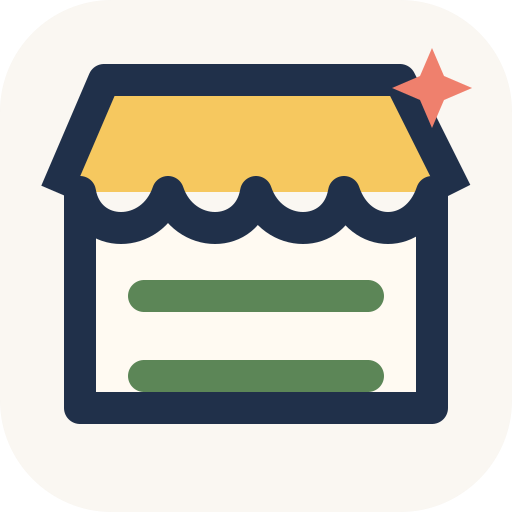
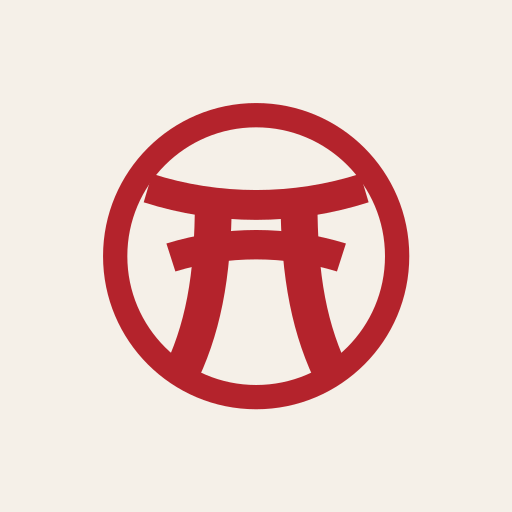
feat: update theme color to #b4232c and adjust related styles across the application

diff --git a/src/pages/CatalogPage.tsx b/src/pages/CatalogPage.tsx
@@ -1,11 +1,7 @@
 import { useCallback, useEffect, useMemo, useRef, useState } from "react";
 import "../styles/catalog.css";
-import { applyPageTheme, getStoredBoothTheme, getThemeStyle, resetPageTheme } from "../lib/theme";
-import {
-  getShopBranding,
-  safePublicUrl,
-  useDocumentBranding,
-} from "../lib/branding";
+import { applyPageTheme, getThemeStyle, resetPageTheme } from "../lib/theme";
+import { getShopBranding, useDocumentBranding } from "../lib/branding";
 import type { Order, Product, StorefrontSection } from "../types/catalog";
 import { CatalogLocaleProvider } from "../lib/catalogI18n";
 import { CatalogHeader } from "../components/catalog/CatalogHeader";
@@ -33,7 +29,7 @@ import { PageLoading } from "../components/ui/PageLoading";
 import { Link, useParams } from "react-router-dom";
 import { getPublicShop } from "../lib/api";
 import type { Shop } from "../types/catalog";
-import { LogIn, RotateCw, Store, StoreIcon } from "lucide-react";
+import { LogIn, RotateCw, Store } from "lucide-react";
 
 type NetworkConnection = { effectiveType?: string; saveData?: boolean };
 
@@ -82,7 +78,11 @@ export function CatalogPage() {
   const [activeOrder, setActiveOrder] = useState<Order | null>(initialOrder);
   const activeOrderRef = useRef<Order | null>(initialOrder);
   const verifiedBranding =
-    shop && shop.slug === shopSlug && booth.shop_id === shop.id && !isLoading && !loadError
+    shop &&
+    shop.slug === shopSlug &&
+    booth.shop_id === shop.id &&
+    !isLoading &&
+    !loadError
       ? getShopBranding(
           shop.name,
           booth.booth_name,
@@ -444,19 +444,14 @@ export function CatalogPage() {
     },
   ].sort((first, second) => first.position - second.position);
 
-  if (shop === undefined)
-    {
-      const cachedBooth = getStoredBoothTheme(`slug:${shopSlug}`);
-      const cachedLogo = safePublicUrl(cachedBooth.logo_url);
-      return (
+  if (shop === undefined) {
+    return (
       <PageLoading
         title="Opening the shop…"
         message="Getting the shelves ready for you."
-        icon={cachedLogo ? <img src={cachedLogo} alt="" /> : <StoreIcon size={28} />}
-        style={getThemeStyle(cachedBooth)}
       />
-      );
-    }
+    );
+  }
   if (shop === null)
     return (
       <main className="shop-state-shell">
@@ -509,14 +504,10 @@ export function CatalogPage() {
     );
 
   if (isLoading) {
-    const cachedBooth = getStoredBoothTheme(`slug:${shopSlug}`);
-    const cachedLogo = safePublicUrl(cachedBooth.logo_url);
     return (
       <PageLoading
         title="Opening the shop…"
         message="Getting the shelves ready for you."
-        icon={cachedLogo ? <img src={cachedLogo} alt="" /> : <StoreIcon size={28} />}
-        style={getThemeStyle(cachedBooth)}
       />
     );
   }

diff --git a/src/components/ui/PageLoading.tsx b/src/components/ui/PageLoading.tsx
@@ -5,26 +5,26 @@ import { PLATFORM_BRAND } from "../../lib/branding";
 interface PageLoadingProps {
   title?: ReactNode;
   message?: ReactNode;
-  icon?: ReactNode;
-  style?: React.CSSProperties;
-  showProgress?: boolean;
 }
 
 export function PageLoading({
   title = `Preparing ${PLATFORM_BRAND.name}`,
   message = "Getting everything ready…",
-  icon = <PlatformMark />,
-  style,
-  showProgress = true,
 }: PageLoadingProps) {
   return (
-    <main className="page-loading" aria-label={`Loading ${PLATFORM_BRAND.name}`} aria-busy="true" style={style}>
-      <div className="page-loading-brand" aria-hidden="true">{icon}</div>
-      <div className="page-loading-copy"><strong>{title}</strong><span>{message}</span></div>
-      <div
-        className={`page-loading-track ${showProgress ? "" : "page-loading-track-pending"}`}
-        aria-hidden="true"
-      >
+    <main
+      className="page-loading"
+      aria-label={`Loading ${PLATFORM_BRAND.name}`}
+      aria-busy="true"
+    >
+      <div className="page-loading-brand" aria-hidden="true">
+        <PlatformMark />
+      </div>
+      <div className="page-loading-copy">
+        <strong>{title}</strong>
+        <span>{message}</span>
+      </div>
+      <div className="page-loading-track" aria-hidden="true">
         <i />
       </div>
     </main>

diff --git a/src/components/ui/PageLoading.test.tsx b/src/components/ui/PageLoading.test.tsx
@@ -1,0 +1,25 @@
+import { afterEach, describe, expect, it } from "vitest";
+import { cleanup, render, screen } from "@testing-library/react";
+import { PageLoading } from "./PageLoading";
+
+describe("PageLoading", () => {
+  afterEach(cleanup);
+
+  it("keeps the shared Matsuri brand and progress treatment with contextual copy", () => {
+    render(
+      <PageLoading
+        title="Opening the shop…"
+        message="Getting the shelves ready for you."
+      />,
+    );
+
+    const loading = screen.getByLabelText("Loading Matsuri");
+    expect(loading).toHaveAttribute("aria-busy", "true");
+    expect(loading.querySelector(".page-loading-brand img")).toHaveAttribute(
+      "src",
+      expect.stringContaining("brand/matsuri-mark.svg"),
+    );
+    expect(loading.querySelector(".page-loading-track i")).toBeInTheDocument();
+    expect(screen.getByText("Opening the shop…")).toBeInTheDocument();
+  });
+});

diff --git a/src/styles/global.css b/src/styles/global.css
@@ -12,8 +12,8 @@
   --surface: #ffffff;
   --surface-soft: #faf7f1;
   --surface-tint: #f1ece4;
-  --coral: #5c8657;
-  --coral-strong: #476b43;
+  --coral: #b4232c;
+  --coral-strong: #8f1821;
   --blue: #f6c85f;
   --navy: #20304a;
   --teal: #ef806d;
@@ -118,16 +118,14 @@ img {
   @keyframes empty-state-arrive { from { opacity: 0; transform: translateY(4px); } }
 }
 
-.page-loading { position: fixed; inset: 0; z-index: 9998; display: grid; place-items: center; align-content: center; gap: 16px; width: 100%; min-height: 100dvh; padding: 24px; color: var(--muted); background: radial-gradient(circle at 50% 42%, color-mix(in srgb, var(--coral) 9%, transparent), transparent 34%), var(--page-bg); text-align: center; }
-.page-loading-brand { display: grid; place-items: center; width: 64px; height: 64px; overflow: hidden; border: 1px solid color-mix(in srgb, var(--coral) 18%, var(--line)); border-radius: 22px; color: var(--coral); background: var(--surface); box-shadow: var(--soft-shadow); animation: loading-float 1.8s ease-in-out infinite; }
+.page-loading { --loading-accent: #b4232c; --loading-ink: #20304a; --loading-muted: #667080; --loading-line: #ded9cf; --loading-bg: #f5f0e8; position: fixed; inset: 0; z-index: 9998; display: grid; place-items: center; align-content: center; gap: 16px; width: 100%; min-height: 100dvh; padding: 24px; color: var(--loading-muted); background: radial-gradient(circle at 50% 42%, color-mix(in srgb, var(--loading-accent) 9%, transparent), transparent 34%), var(--loading-bg); text-align: center; }
+.page-loading-brand { display: grid; place-items: center; width: 64px; height: 64px; overflow: hidden; border: 1px solid color-mix(in srgb, var(--loading-accent) 18%, var(--loading-line)); border-radius: 22px; color: var(--loading-accent); background: #fff; box-shadow: var(--soft-shadow); animation: loading-float 1.8s ease-in-out infinite; }
 .page-loading-brand img { width: 100%; height: 100%; padding: 11px; object-fit: contain; }
 .page-loading-copy { display: grid; gap: 6px; }
-.page-loading-copy strong { color: var(--ink); font-size: 19px; }
+.page-loading-copy strong { color: var(--loading-ink); font-size: 19px; }
 .page-loading-copy span { font-size: 13px; }
-.page-loading-track { overflow: hidden; width: min(220px, 60vw); height: 4px; border-radius: 999px; background: color-mix(in srgb, var(--coral) 12%, var(--line)); }
-.page-loading-track i { display: block; width: 42%; height: 100%; border-radius: inherit; background: var(--coral); animation: loading-track 1.25s ease-in-out infinite; }
-.page-loading-track-pending { visibility: hidden; }
-.page-loading-track-pending i { animation: none; }
+.page-loading-track { overflow: hidden; width: min(220px, 60vw); height: 4px; border-radius: 999px; background: color-mix(in srgb, var(--loading-accent) 12%, var(--loading-line)); }
+.page-loading-track i { display: block; width: 42%; height: 100%; border-radius: inherit; background: var(--loading-accent); animation: loading-track 1.25s ease-in-out infinite; }
 @keyframes loading-float { 50% { transform: translateY(-4px); } }
 @keyframes loading-track { from { transform: translateX(-110%); } to { transform: translateX(350%); } }
 @media (prefers-reduced-motion: reduce) { .page-loading-brand, .page-loading-track i, .state-spinner { animation-duration: 2.4s; } }

diff --git a/src/App.tsx b/src/App.tsx
@@ -12,7 +12,6 @@ import { ToastProvider } from "./components/ui/ToastProvider";
 import { PageLoading } from "./components/ui/PageLoading";
 import { PLATFORM_BRAND, resetDocumentBranding } from "./lib/branding";
 import { resetPageTheme } from "./lib/theme";
-import { ShieldCheck } from "lucide-react";
 
 const HomePage = lazy(() =>
   import("./pages/HomePage").then((m) => ({ default: m.HomePage })),
@@ -76,17 +75,6 @@ function RouteAwareToastProvider({ children }: { children: ReactNode }) {
 }
 
 function RouteLoading() {
-  const { pathname } = useLocation();
-  if (pathname === "/admin") {
-    return (
-      <PageLoading
-        title="Checking your access"
-        message="Loading your workspace…"
-        icon={<ShieldCheck size={28} />}
-        showProgress={false}
-      />
-    );
-  }
   return <PageLoading />;
 }
 

diff --git a/src/components/admin/LoginPanel.tsx b/src/components/admin/LoginPanel.tsx
@@ -1,5 +1,5 @@
 import { FormEvent, useState } from "react";
-import { ArrowRight, Mail, LoaderCircle, ShieldCheck } from "lucide-react";
+import { ArrowRight, Mail, LoaderCircle } from "lucide-react";
 import { Link } from "react-router-dom";
 import { isSupabaseConfigured } from "../../lib/supabase";
 import { useAsyncAction } from "../../hooks/useAsyncAction";
@@ -113,7 +113,6 @@ export function AdminAccessCheck() {
     <PageLoading
       title="Checking your access"
       message="Loading your workspace…"
-      icon={<ShieldCheck size={28} />}
     />
   );
 }

diff --git a/index.html b/index.html
@@ -3,7 +3,7 @@
   <head>
     <meta charset="UTF-8" />
     <meta name="viewport" content="width=device-width, initial-scale=1.0" />
-    <meta name="theme-color" content="#f5f0e8" />
+    <meta name="theme-color" content="#b4232c" />
     <meta name="description" content="A storefront and live order platform for independent artist booths." />
     <link rel="manifest" href="/manifest.webmanifest" />
     <link rel="icon" href="/brand/matsuri-favicon.svg" />

diff --git a/src/components/admin/StorefrontDesigner.tsx b/src/components/admin/StorefrontDesigner.tsx
@@ -495,7 +495,7 @@ export function StorefrontDesigner({ shopId, settings, products, payment, onSave
 
             {tab === "style" && <>
               <div className="builder-section-heading"><div><strong>Look & feel</strong><small>Changes update the canvas instantly.</small></div></div>
-              <div className="designer-color-grid">{([['theme_primary','Primary','#5c8657'],['theme_secondary','Dark','#20304a'],['theme_accent','Accent','#f6c85f'],['theme_background','Page','#f5f0e8']] as const).map(([key,label,fallback]) => <label key={key}><span>{label}</span><div><input type="color" value={draft[key] ?? fallback} onChange={(event) => update(key, event.target.value)} /><code>{draft[key] ?? fallback}</code></div></label>)}</div>
+              <div className="designer-color-grid">{([['theme_primary','Primary','#b4232c'],['theme_secondary','Dark','#20304a'],['theme_accent','Accent','#f6c85f'],['theme_background','Page','#f5f0e8']] as const).map(([key,label,fallback]) => <label key={key}><span>{label}</span><div><input type="color" value={draft[key] ?? fallback} onChange={(event) => update(key, event.target.value)} /><code>{draft[key] ?? fallback}</code></div></label>)}</div>
               <div className="designer-setting-group"><div><Palette size={16} /><span><strong>Corner radius</strong><small>{draft.corner_radius ?? 16}px across storefront cards</small></span></div><input type="range" min="0" max="32" step="1" value={draft.corner_radius ?? 16} onChange={(event) => update("corner_radius", Number(event.target.value))} /></div>
               <div className="designer-locale"><Languages size={17} /><span><strong>Storefront language</strong><small>Customer-facing interface copy.</small></span><div><button type="button" className={(draft.catalog_locale ?? "en") === "en" ? "active" : ""} onClick={() => update("catalog_locale", "en")}>EN</button><button type="button" className={draft.catalog_locale === "vi" ? "active" : ""} onClick={() => update("catalog_locale", "vi")}>VI</button></div></div>
             </>}

diff --git a/src/lib/branding.test.tsx b/src/lib/branding.test.tsx
@@ -6,7 +6,7 @@ afterEach(() => { cleanup(); resetDocumentBranding(); });
 
 describe("branding", () => {
   it("returns Matsuri platform defaults", () => {
-    expect(getPlatformBranding()).toEqual({ title: "Matsuri", faviconUrl: PLATFORM_FAVICON, themeColor: "#f5f0e8" });
+    expect(getPlatformBranding()).toEqual({ title: "Matsuri", faviconUrl: PLATFORM_FAVICON, themeColor: "#b4232c" });
   });
 
   it("accepts safe URLs and rejects unsafe values", () => {

diff --git a/src/lib/branding.ts b/src/lib/branding.ts
@@ -7,7 +7,7 @@ export const PLATFORM_BRAND = {
   description: "A storefront and live order platform for independent artist booths.",
 } as const;
 
-export const PLATFORM_THEME_COLOR = "#f5f0e8";
+export const PLATFORM_THEME_COLOR = "#b4232c";
 export const PLATFORM_FAVICON = `${import.meta.env.BASE_URL}brand/matsuri-favicon.svg`;
 
 export type DocumentBranding = {

diff --git a/src/lib/constants.ts b/src/lib/constants.ts
@@ -11,7 +11,7 @@ export const defaultBooth: BoothSettings = {
   facebook_url: "",
   tiktok_url: "",
   social_qr_logo_url: "",
-  theme_primary: "#5c8657",
+  theme_primary: "#b4232c",
   theme_secondary: "#20304a",
   theme_accent: "#f6c85f",
   theme_background: "#f5f0e8",

diff --git a/src/lib/theme.ts b/src/lib/theme.ts
@@ -40,7 +40,7 @@ export function getStoredBoothTheme(scope?: string): BoothSettings {
 }
 
 export function getThemeStyle(booth: BoothSettings): ThemeStyle {
-  const primary = color(booth.theme_primary, defaultBooth.theme_primary ?? "#5c8657");
+  const primary = color(booth.theme_primary, defaultBooth.theme_primary ?? "#b4232c");
   const secondary = color(booth.theme_secondary, defaultBooth.theme_secondary ?? "#20304a");
   const accent = color(booth.theme_accent, defaultBooth.theme_accent ?? "#f6c85f");
   const background = color(booth.theme_background, defaultBooth.theme_background ?? "#f5f0e8");